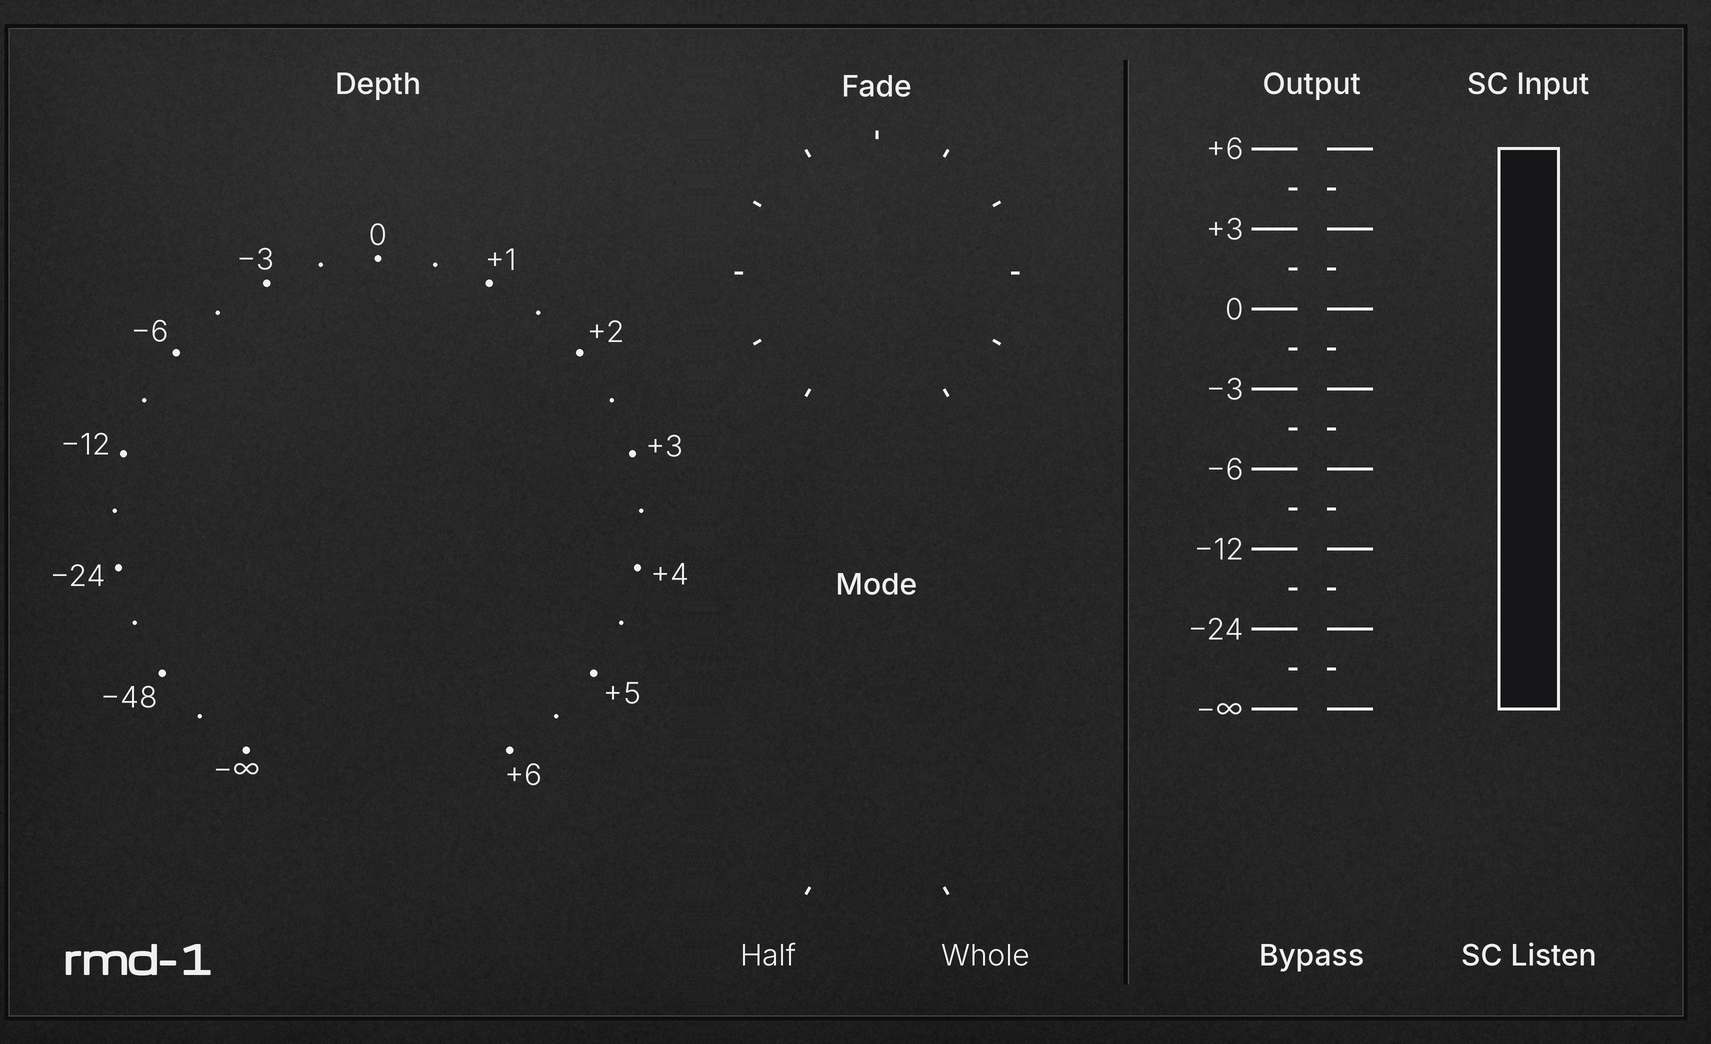
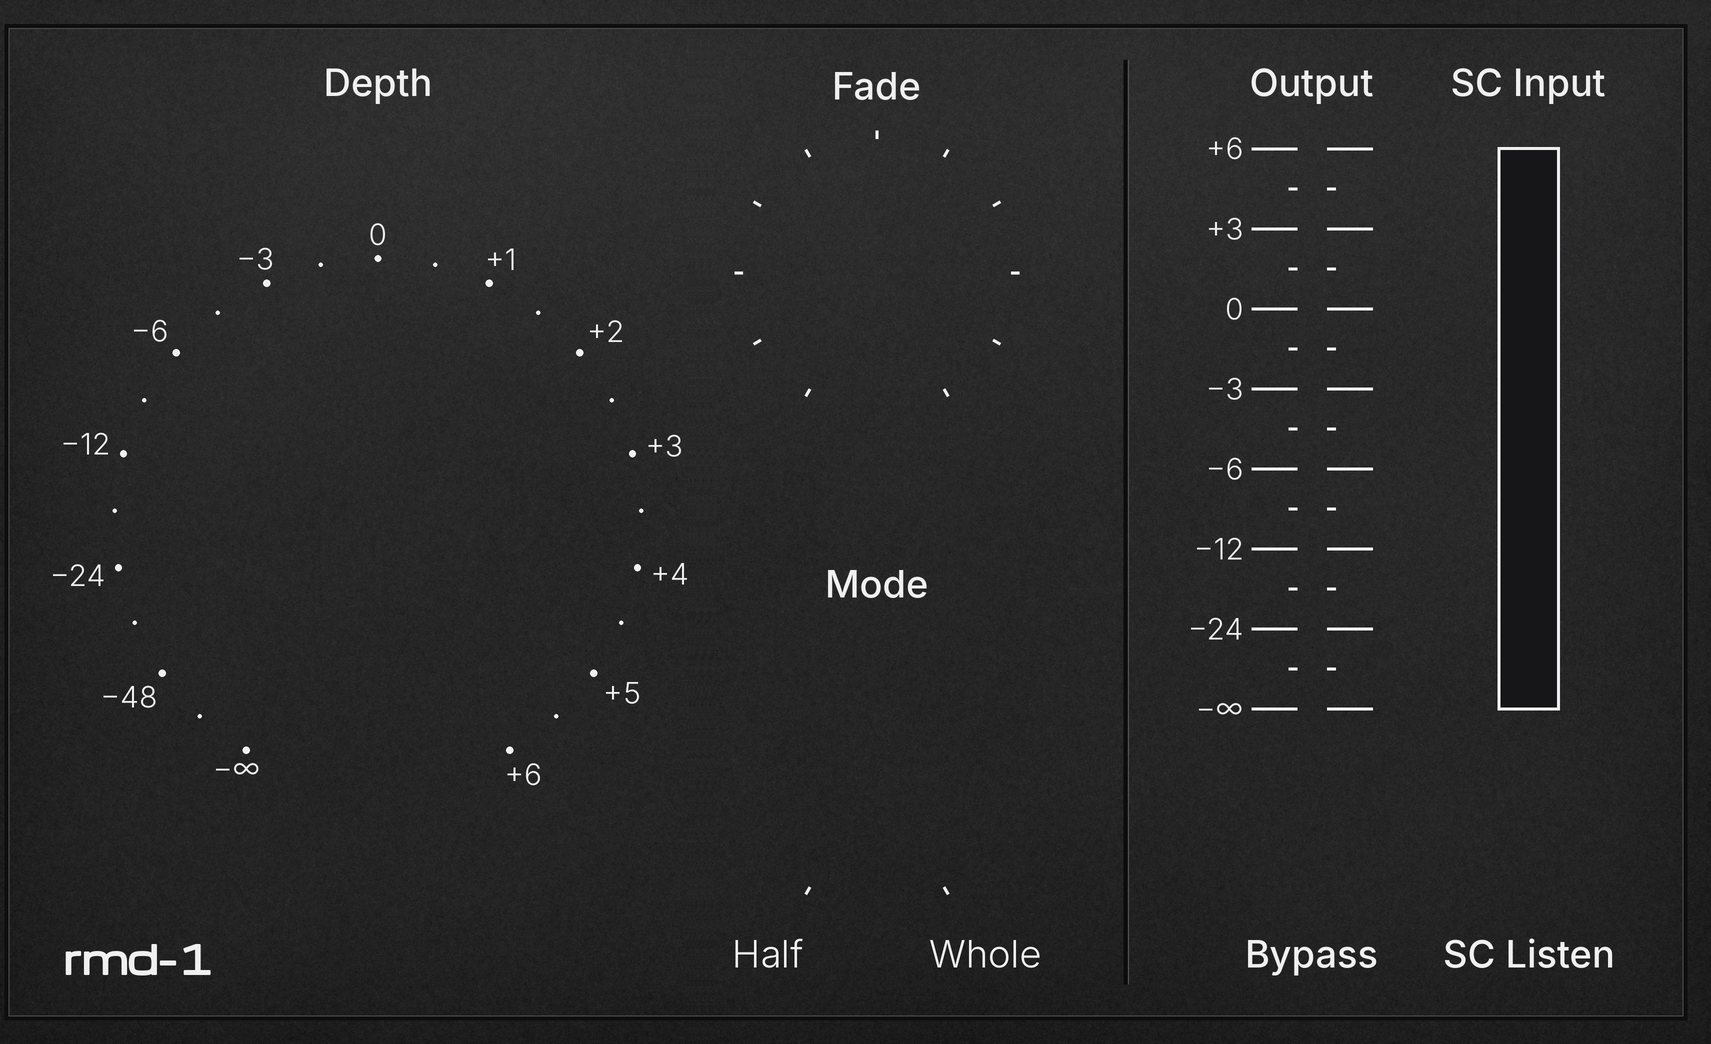
Textos de titulos, Half/Whole, Bypass y SC Listen al tamano del 'Window' de la referencia (38) [skip ci]
Claude-Session: https://claude.ai/code/session_01LmYTuHAKQSU8qhR6nNkVAi

diff --git a/UI_definitiva/generadores/bg_gen.py b/UI_definitiva/generadores/bg_gen.py
@@ -54,7 +54,8 @@ for i in range(7):   # marcas intermedias (+4.5, +1.5, -1.5, -4.5, -9, -18, -42 
 def _ink(t,font,anchor):   # caja de tinta real (se dibuja aparte), relativa al punto de anclaje
     W_,H_=int(font.size*len(t)*1.2)+200,int(font.size*3); im_=Image.new('L',(W_,H_),0); ImageDraw.Draw(im_).text((W_//2,H_//2),t,font=font,fill=255,anchor=anchor)
     b_=im_.point(lambda v:255 if v>100 else 0).getbbox(); return (b_[0]-W_//2,b_[1]-H_//2,b_[2]-W_//2,b_[3]-H_//2)
-L=FM(30)
+FS=38   # tamano de los textos de titulos / Half / Whole / Bypass / SC Listen (= el texto 'Window' de la referencia)
+L=FM(FS); L30=FM(30)
 for i,t in enumerate(['+6','+3','0','\u22123','\u22126','\u221212','\u221224','\u2212\u221e']):   # valor de cada marca del fader (como la escala del Depth)
     _f=FL(30); _y=pt+(fb-pt)*i/7; _bb=_ink(t,_f,'rm')   # caja de tinta: borde derecho y centro vertical exactos en la marca
     d.text(((fx-60.5-10)*S-_bb[2],(_y*S)-(_bb[1]+_bb[3])/2),t,font=_f,fill=G,anchor='rm')
@@ -67,18 +68,18 @@ ctitle(378,'Depth',TY)
 ctitle(857,'Fade',TY)   # 41,5 sobre la perilla (igual que Mode)
 ctitle(857,'Mode',584.25)
 ctitle(fx,'Output',TY); ctitle(1508.5,'SC Input',TY)
-bf=FM(30); GAP_T=10
-bb=d.textbbox((0,0),'Input Listen',font=bf,anchor='ls'); th=(-bb[1])/S; desc=bb[3]/S
+bf=FM(FS); bf30=FM(30); GAP_T=10
+bb=d.textbbox((0,0),'Input Listen',font=bf30,anchor='ls'); th=(-bb[1])/S; desc=bb[3]/S
 unit=64+GAP_T+th+desc; gap=((H-24)-db-unit)/2
 by0=db+gap; by1=by0+64
-_bo=d.textbbox((0,0),'Output',font=L,anchor='ls'); _top=YM-(_bo[1]+_bo[3])/(2*S)+_bo[1]/S-24   # distancia del techo de la tinta de Output al borde superior del plugin
+_bo=d.textbbox((0,0),'Output',font=L30,anchor='ls'); _top=YM-(_bo[1]+_bo[3])/(2*S)+_bo[1]/S-24   # distancia del techo de la tinta de Output al borde superior del plugin
 _bb2=d.textbbox((0,0),'Bypass',font=bf,anchor='ls'); BY=957.75; base=BY-(_bb2[1]+_bb2[3])/(2*S)   # Bypass / SC Listen / Half / Whole con la tinta centrada sobre la linea a mitad entre la ultima linea de la grilla y el borde inferior (los 4 comparten linea de base)
-_unused=(H-24-_top)-_bb2[3]/S   # el fondo de la tinta de Bypass queda a esa misma distancia del borde inferior
+_unused=(H-24-_top)-d.textbbox((0,0),'Bypass',font=bf30,anchor='ls')[3]/S   # el fondo de la tinta de Bypass queda a esa misma distancia del borde inferior
 print('borde: arriba',round(_top,1),'abajo',round(H-24-(base+_bb2[3]/S),1))
 for cx,name in ((fx,"Bypass"),(1508.5,"SC Listen")):
     _bx=_ink(name,bf,'ms'); d.text((cx*S-(_bx[0]+_bx[2])/2,base*S),name,font=bf,fill=G,anchor='ms')   # centrado por la tinta
 BH=base   # linea de base de Half / Whole = la de los valores de abajo
-HW=FL(30)
+HW=FL(FS)
 _r0=125+5; _y0=771+_r0*math.cos(math.radians(30)); _ttop=BH+d.textbbox((0,0),'Half',font=HW,anchor='ls')[1]/S   # techo de Half / Whole
 _tt=(_y0+34+_ttop)/2   # donde termina la linea: justo arriba del texto (igual que antes)
 XH=857-(_r0*math.sin(math.radians(30))+(_tt-_y0)*math.tan(math.radians(30)))   # la linea sigue el angulo del tick hasta _tt; Half queda centrado ahi (Whole es simetrico)
